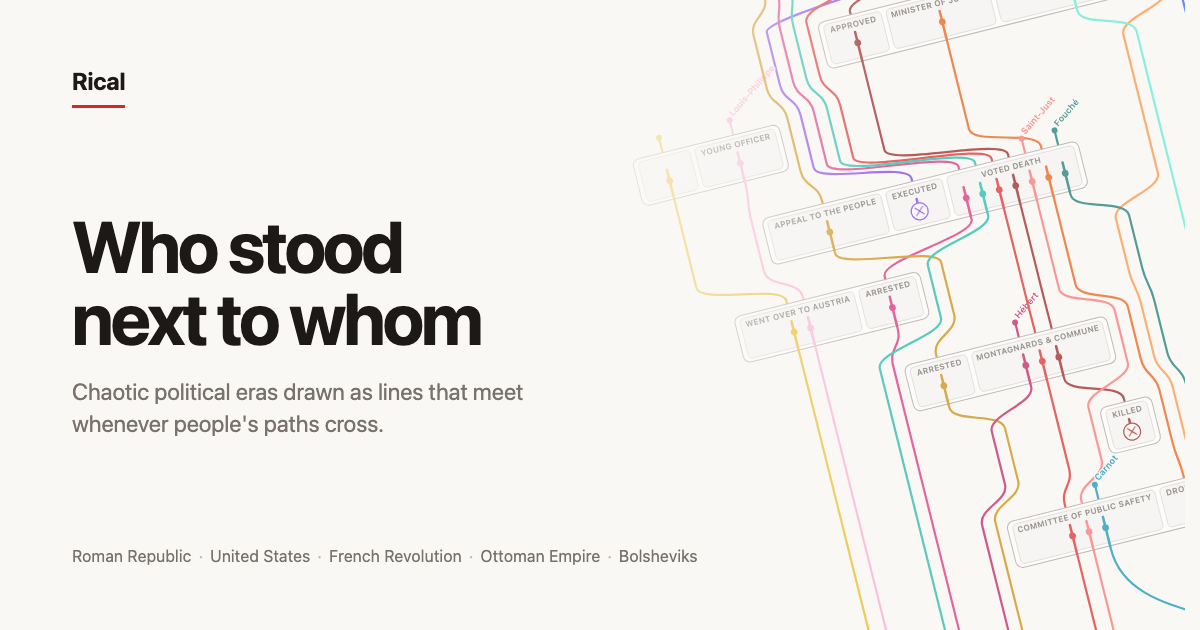
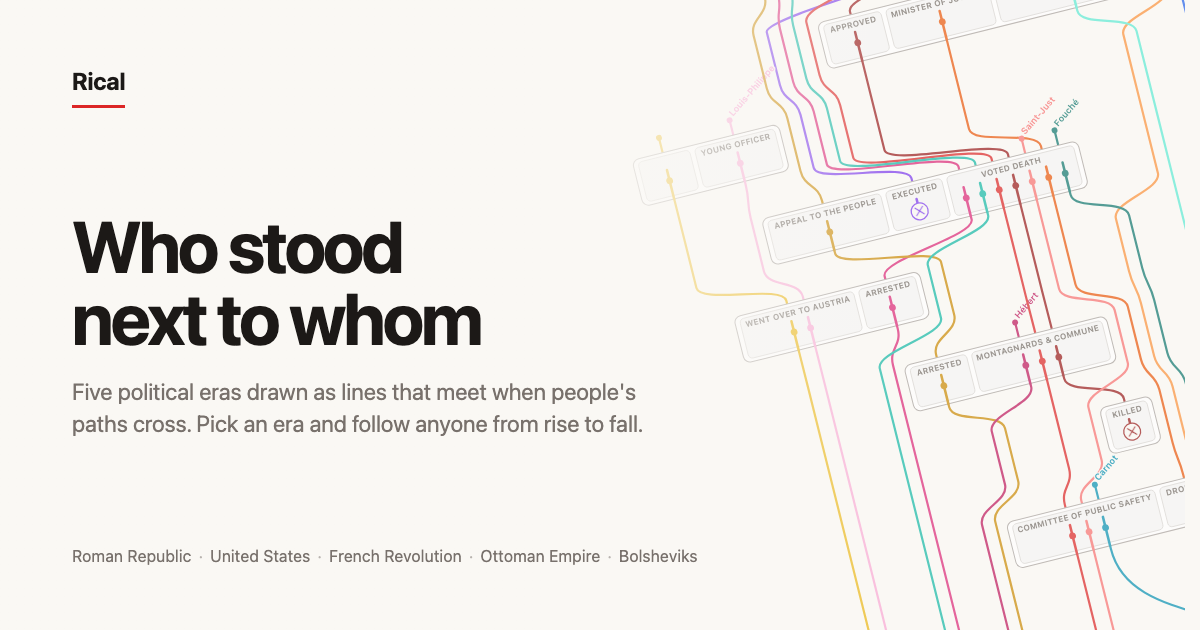
Link preview: restore the Rical title prefix, put the new description on the image

Changed region(s): [[0.0617, 0.6635, 0.555, 0.6937], [0.0617, 0.6032, 0.5242, 0.6333]]

diff --git a/index.html b/index.html
@@ -11,7 +11,7 @@
 <meta property="og:type" content="website">
 <meta property="og:site_name" content="Rical">
 <meta property="og:url" content="https://rical-1876.vercel.app/">
-<meta property="og:title" content="Who stood next to whom">
+<meta property="og:title" content="Rical: who stood next to whom">
 <meta property="og:description" content="Five political eras drawn as lines that meet when people's paths cross. Pick an era and follow anyone from rise to fall.">
 <meta property="og:image" content="https://rical-1876.vercel.app/og.png">
 <meta property="og:image:width" content="1200">
@@ -20,7 +20,7 @@
 <meta name="twitter:card" content="summary_large_image">
 <meta name="twitter:site" content="@cahidarda">
 <meta name="twitter:creator" content="@cahidarda">
-<meta name="twitter:title" content="Who stood next to whom">
+<meta name="twitter:title" content="Rical: who stood next to whom">
 <meta name="twitter:description" content="Five political eras drawn as lines that meet when people's paths cross. Pick an era and follow anyone from rise to fall.">
 <meta name="twitter:image" content="https://rical-1876.vercel.app/og.png">
 <meta name="twitter:image:alt" content="Rical: who stood next to whom. A tilted storyline chart of the French Revolution around the king's trial, with coloured lines for each person meeting in event boxes.">

diff --git a/og.py b/og.py
@@ -41,7 +41,7 @@ COMPOSE = r"""
       #og .brand { align-self:flex-start; font-weight:700; font-size:24px; letter-spacing:-.01em; padding-bottom:6px;
                    border-bottom:3px solid #dc2626; }
       #og h1 { margin:auto 0 0; font-size:72px; line-height:1; letter-spacing:-.04em; font-weight:700; }
-      #og p { margin:22px 0 0; font-size:23px; line-height:1.4; color:var(--muted); max-width:520px; }
+      #og p { margin:22px 0 0; font-size:23px; line-height:1.4; color:var(--muted); max-width:580px; }
       #og .eras { margin-top:auto; font-size:16px; line-height:1.7; color:var(--muted); letter-spacing:.01em; }
       #og .eras span { white-space:nowrap; }
       #og .eras i { font-style:normal; opacity:.5; padding:0 7px; }
@@ -51,7 +51,7 @@ COMPOSE = r"""
     <div class="fg">
       <div class="brand">Rical</div>
       <h1>Who stood<br>next to whom</h1>
-      <p>Chaotic political eras drawn as lines that meet whenever people's paths cross.</p>
+      <p>Five political eras drawn as lines that meet when people's paths cross. Pick an era and follow anyone from rise to fall.</p>
       <div class="eras">${eras.map(e => `<span>${e}</span>`).join('<i>·</i>')}</div>
     </div>`;
   document.body.appendChild(card);
